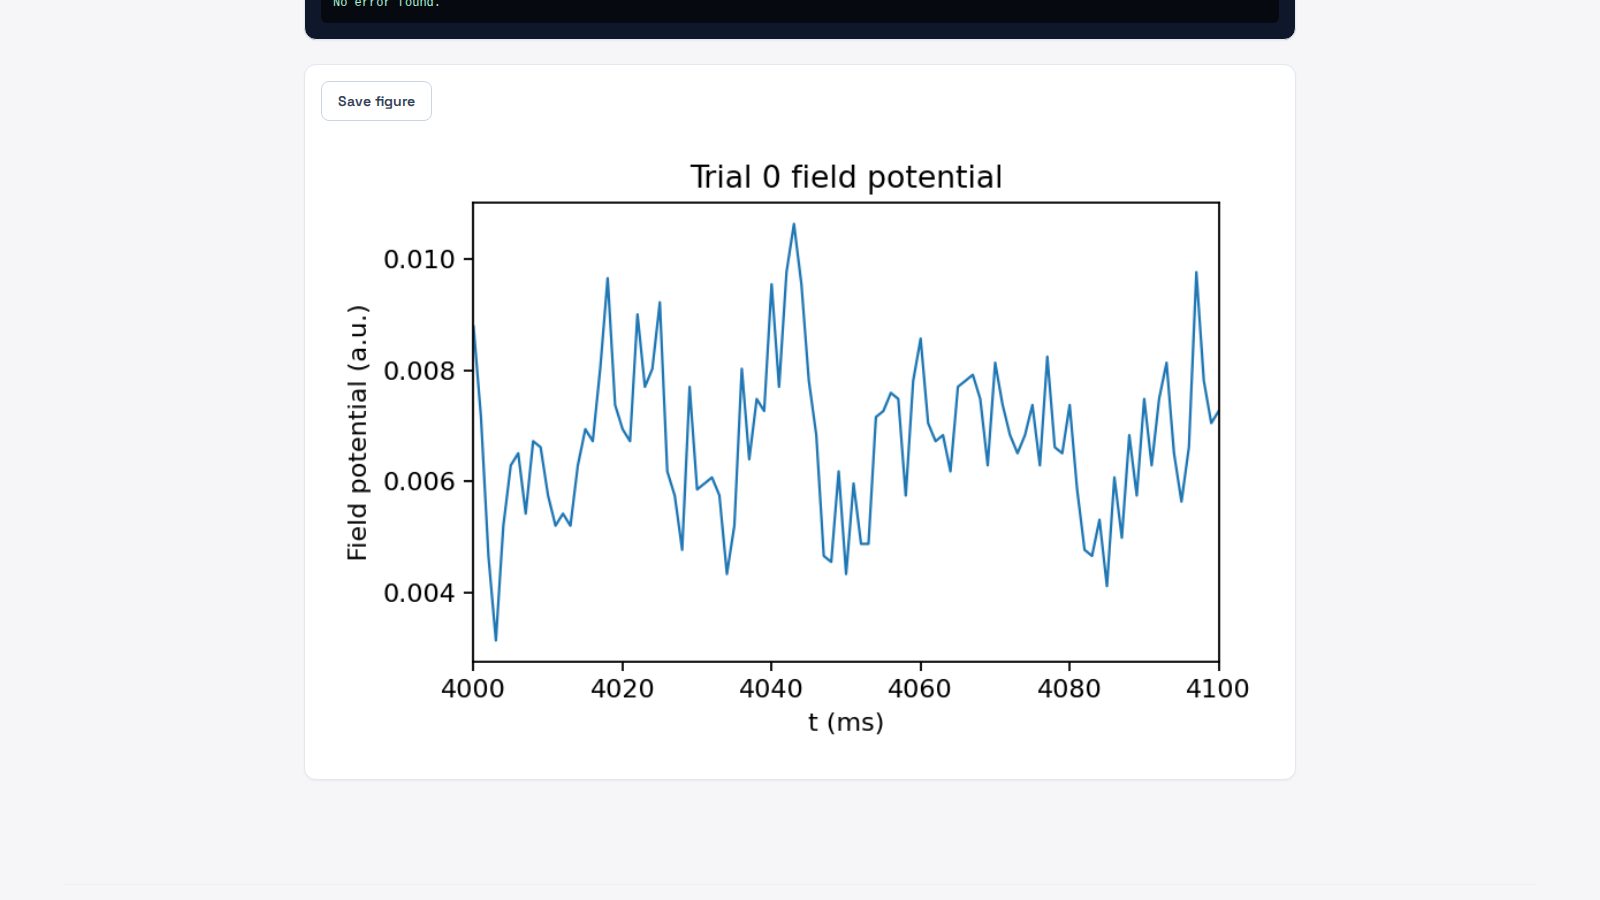
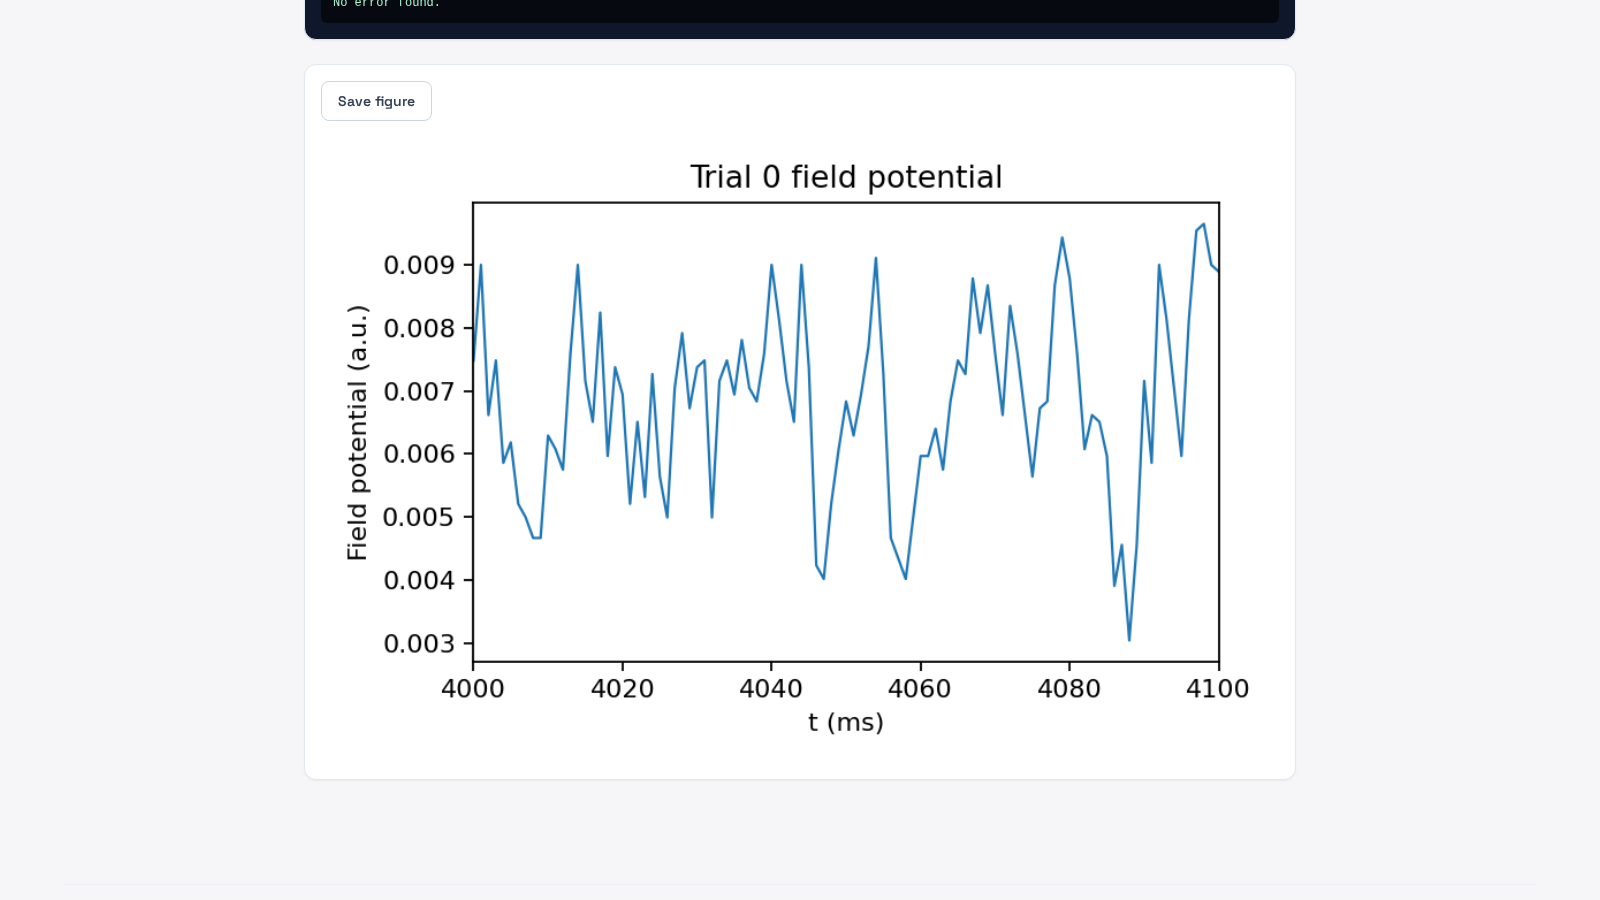
Update overview video

Changed region(s): [[0.2188, 0.2489, 0.7812, 0.7156], [0.2188, 0.6222, 0.3125, 0.7467], [0.2188, 0.0933, 0.25, 0.1244]]

diff --git a/docs/tutorials/automation/presentation_webui.py b/docs/tutorials/automation/presentation_webui.py
@@ -11,7 +11,7 @@ import time
 from pathlib import Path
 from typing import Optional
 
-from playwright.sync_api import Page, TimeoutError as PlaywrightTimeoutError, sync_playwright
+from playwright.sync_api import Locator, Page, TimeoutError as PlaywrightTimeoutError, sync_playwright
 
 import simulate_lif_network_webui as simulation_flow
 
@@ -71,6 +71,34 @@ def return_to_dashboard(page: Page, base_url: str) -> None:
         page.goto(base_url, wait_until="domcontentloaded")
 
 
+def slow_scroll_down_to_locator(
+    page: Page,
+    locator: Locator,
+    step_px: int = 180,
+    pause_ms: int = 260,
+) -> None:
+    """Scroll down incrementally until the target control is visible."""
+    locator.wait_for(state="attached")
+    while True:
+        position = locator.evaluate(
+            """
+            (el) => {
+              const rect = el.getBoundingClientRect();
+              return { top: rect.top, bottom: rect.bottom, viewportHeight: window.innerHeight };
+            }
+            """
+        )
+        if position["top"] >= 80 and position["bottom"] <= position["viewportHeight"] - 80:
+            break
+        previous_y = int(page.evaluate("() => window.scrollY") or 0)
+        page.mouse.wheel(0, max(80, int(step_px)))
+        page.wait_for_timeout(max(120, int(pause_ms)))
+        current_y = int(page.evaluate("() => window.scrollY") or 0)
+        if current_y <= previous_y:
+            break
+    simulation_flow.smooth_scroll_to_locator(page, locator, wait_ms=900)
+
+
 def record_presentation(
     base_url: str,
     *,
@@ -117,13 +145,8 @@ def record_presentation(
             page.wait_for_url("**/simulation/new_sim**")
             simulation_flow.smooth_click(page, page.locator("a[href='/simulation/new_sim/hagen']").first)
             page.wait_for_url("**/simulation/new_sim/hagen**")
-            simulation_flow.smooth_fill(
-                page,
-                page.locator("input[data-param='local_num_threads']"),
-                "32",
-            )
             run_trial_button = page.get_by_role("button", name="Run trial simulation")
-            simulation_flow.smooth_scroll_to_locator(page, run_trial_button)
+            slow_scroll_down_to_locator(page, run_trial_button)
             simulation_flow.smooth_click(
                 page,
                 run_trial_button,

diff --git a/README.md b/README.md
@@ -1,4 +1,4 @@
-> **The current code is quite mature and we are on the road to launch ncpi version 1.0 by June 16, 2026.**
+> **The current code is quite mature and we are on the road to launch ncpi version 1.0 by June 22, 2026.**
 
 <div align="center">
 
@@ -16,7 +16,9 @@ electrophysiological recordings, such as LFP, ECoG, MEG, and EEG. `ncpi` provide
 framework for estimating the most probable neural circuit parameters associated with an empirical observation,
 streamlining traditionally complex workflows into a minimal amount of code.
 
-https://github.com/user-attachments/assets/9d436338-387c-4a58-a9c4-ed3a41da7b6b
+<video controls width="100%" poster="docs/tutorials/automation/videos/ncpi-webui-overview-poster.png">
+  <source src="docs/tutorials/automation/videos/ncpi-webui-overview.mp4" type="video/mp4">
+</video>
 
 # Key Features of `ncpi`
 - **All-in-one solution**: a unified package for forward and inverse modeling of extracellular signals from neural
@@ -176,6 +178,32 @@ Replace the placeholders:
 - `<path/to/python>`: Absolute path to Python executable on the server (from `which python`)
 
 The browser opens `http://127.0.0.1:<L>`. Keep the launcher terminal open while using the WebUI. Press `Ctrl+C` to close the SSH tunnel and stop the remote Flask process.
+
+### Start WebUI manually with Flask
+
+To start the server locally with Flask, activate the Conda environment and run the following command from the
+`<path/to/ncpi>/webui` directory:
+
+```bash
+flask run --port <PORT>
+```
+
+Then manually open `http://127.0.0.1:<PORT>` in your local browser.
+
+To run Flask on a remote server, first connect from your local machine and create an SSH tunnel:
+
+```bash
+ssh -L <PORT>:localhost:<PORT> <user>@<server>
+```
+
+In the resulting remote SSH session, activate the Conda environment, change to the `<path/to/ncpi>/webui` directory,
+and start Flask:
+
+```bash
+flask run --port <PORT>
+```
+
+Then manually open `http://127.0.0.1:<PORT>` in your local browser. Keep the SSH session open while using the WebUI.
 
 ### Windows note
 